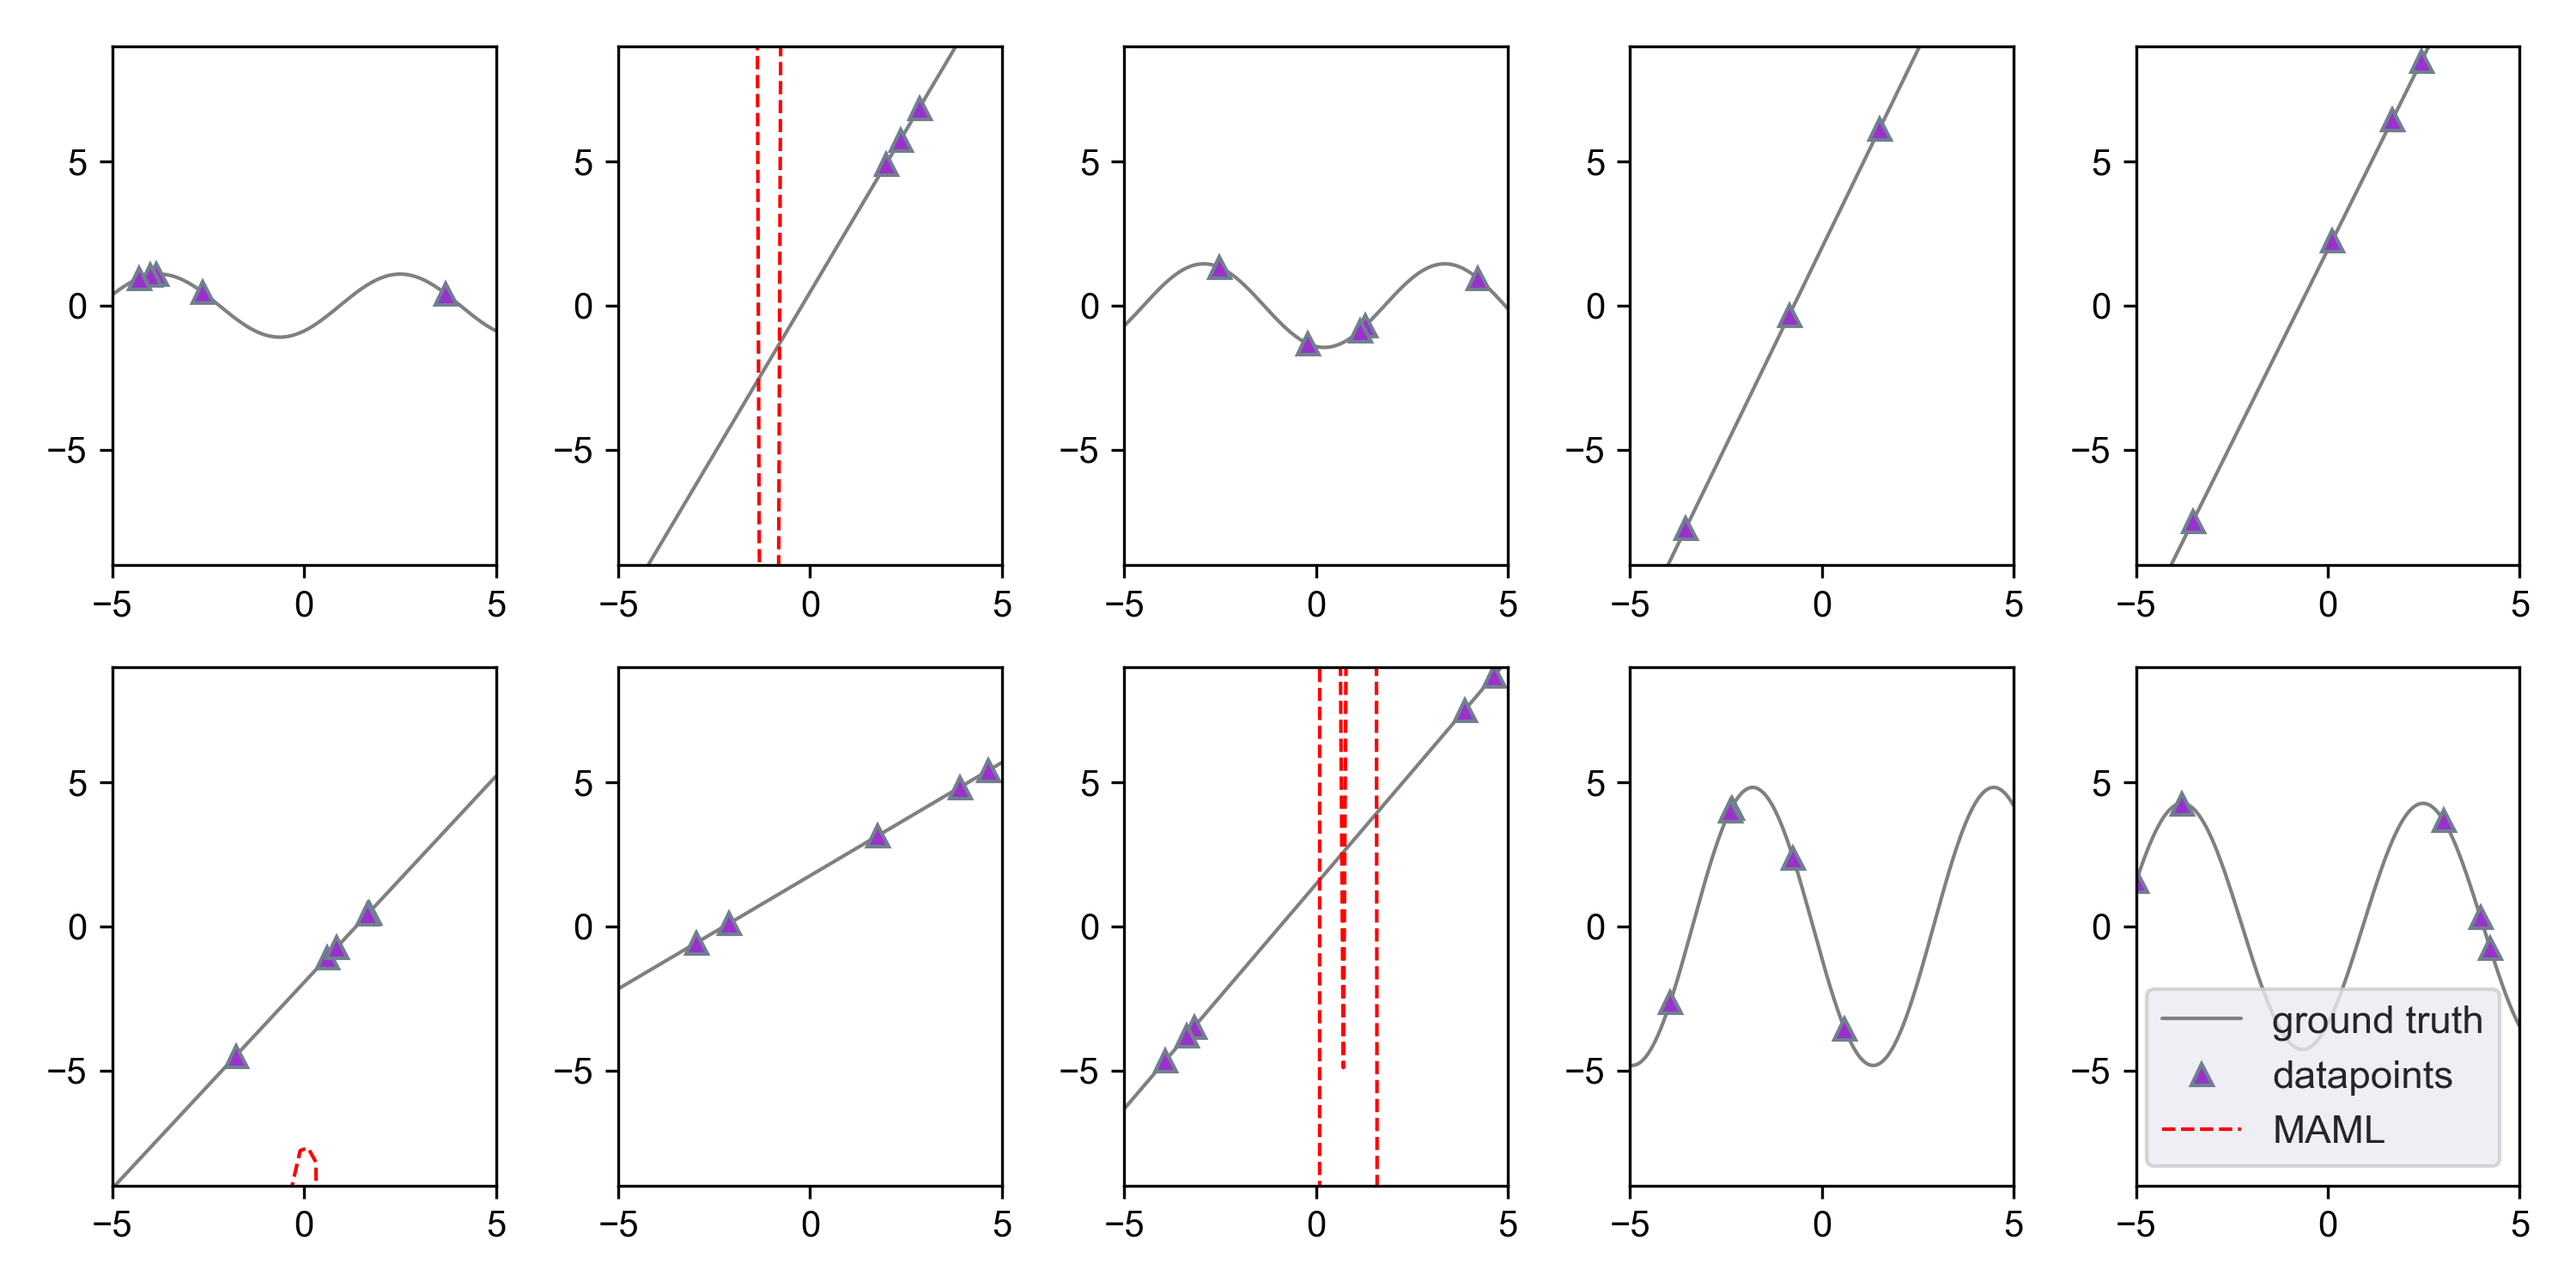
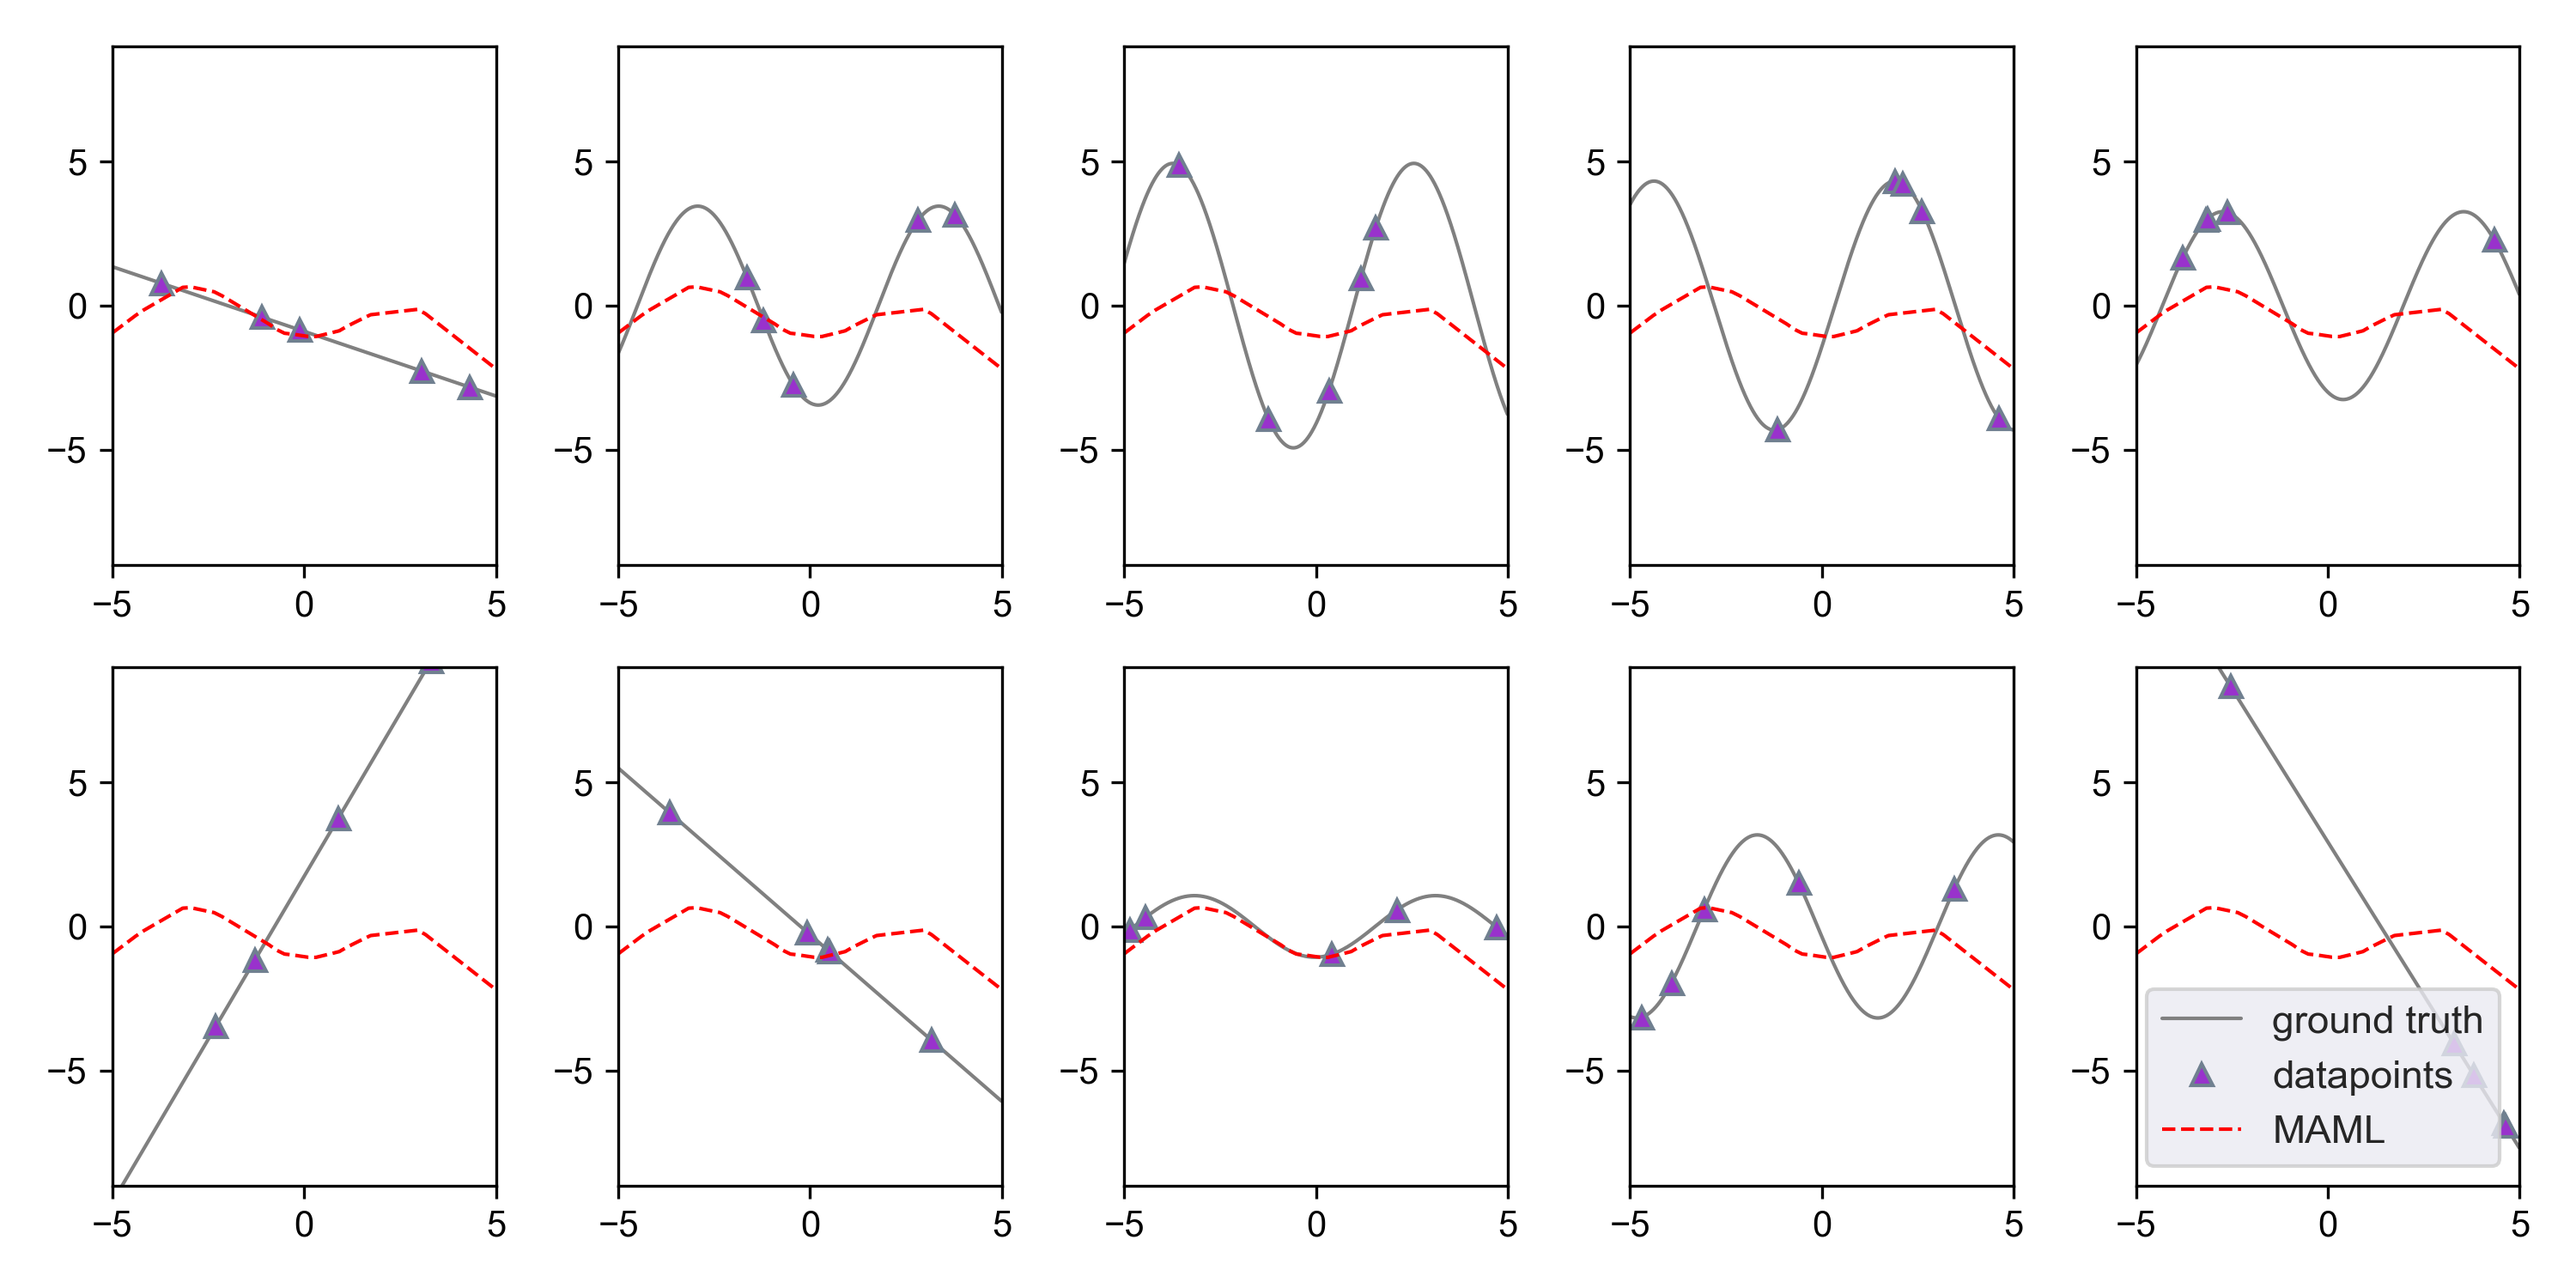
working multiple inner loops

diff --git a/prob_maml/main.py b/prob_maml/main.py
@@ -30,7 +30,7 @@ def train(datasource='sinusoid_linear', output_directory="prob_maml/results"):
     num_samples_per_class = 55
 
     pretrain_iterations = 0
-    metatrain_iterations = 30000 # 70000 in paper
+    metatrain_iterations = 70000 # 70000 in paper
     stochastic = True
     num_classes = 1 # 2 for 2dclass
     bias = 0
@@ -40,7 +40,7 @@ def train(datasource='sinusoid_linear', output_directory="prob_maml/results"):
     optimizer = torch.optim.Adam(model.parameters(), lr=.01)
     meta_model = MAML_trainer(model, optimizer)
     alpha=0.001
-    num_inner_updates = 5
+    num_inner_updates = 2
 
     data_generator = DataGenerator(num_samples_per_class, meta_batch_size, datasource=datasource, num_classes=num_classes)
     num_classes = data_generator.num_classes
@@ -111,6 +111,9 @@ def test(datasource='sinusoid_linear', output_directory='prob_maml/results'):
     for idx, ax in enumerate(axes.flatten()):
         test_model = copy.deepcopy(trained_meta_model)
         updated_params = test_model._inner_loop_train(inputa[idx], labela[idx], alpha)
+        updated_params = OrderedDict(test_model.regressor.named_parameters())
+        for update_idx in range(num_inner_updates):
+            updated_params = test_model._inner_loop_train(inputa[idx], labela[idx], alpha, updated_params)
 
         with torch.no_grad():
             prior_query_predictions = test_model.regressor(inputb[idx], OrderedDict(test_model.regressor.named_parameters()))
@@ -138,4 +141,4 @@ def test(datasource='sinusoid_linear', output_directory='prob_maml/results'):
     plt.legend()
     plt.savefig(os.path.join(output_directory, f"{datasource}_test.png"), dpi=300)
 
-train(datasource='sinusoid_linear', output_directory='prob_maml/results/testing/')
+train(datasource='sinusoid_linear', output_directory='prob_maml/results/modelbias2/')

diff --git a/prob_maml/maml.py b/prob_maml/maml.py
@@ -35,7 +35,6 @@ class MAML_trainer():
             if init_params is None:
                 init_params =  OrderedDict(self.regressor.named_parameters())
             predicted = self.regressor(x_support, init_params)
-        
             loss = F.mse_loss(predicted, y_support)
             self.optimizer.zero_grad()
             loss.backward(retain_graph=True)
@@ -50,6 +49,7 @@ class MAML_trainer():
                 else:
                     new_param = param - alpha * grad
                 updated_params[name] = new_param
+                updated_params[name].retain_grad()
         
         return updated_params
 

diff --git a/prob_maml/prob_main.py b/prob_maml/prob_main.py
@@ -137,7 +137,7 @@ def test(datasource='sinusoid_linear', output_directory='prob_maml/results'):
         ax.set_ylim([-9.0,9.0])
         ax.plot(xs, ys, '-',color='gray', linewidth=1, label='ground truth') 
         ax.plot(inputa[idx], labela[idx], '^', color='darkorchid', markeredgewidth=1, markersize=6, markeredgecolor='slategray', label='datapoints')
-        ax.plot(inputb[idx], updated_query_predictions, color='red', linestyle='--', linewidth=1, label='MAML')
+        ax.plot(inputb[idx], prior_query_predictions, color='red', linestyle='--', linewidth=1, label='MAML')
 
     plt.tight_layout()
     plt.legend()
